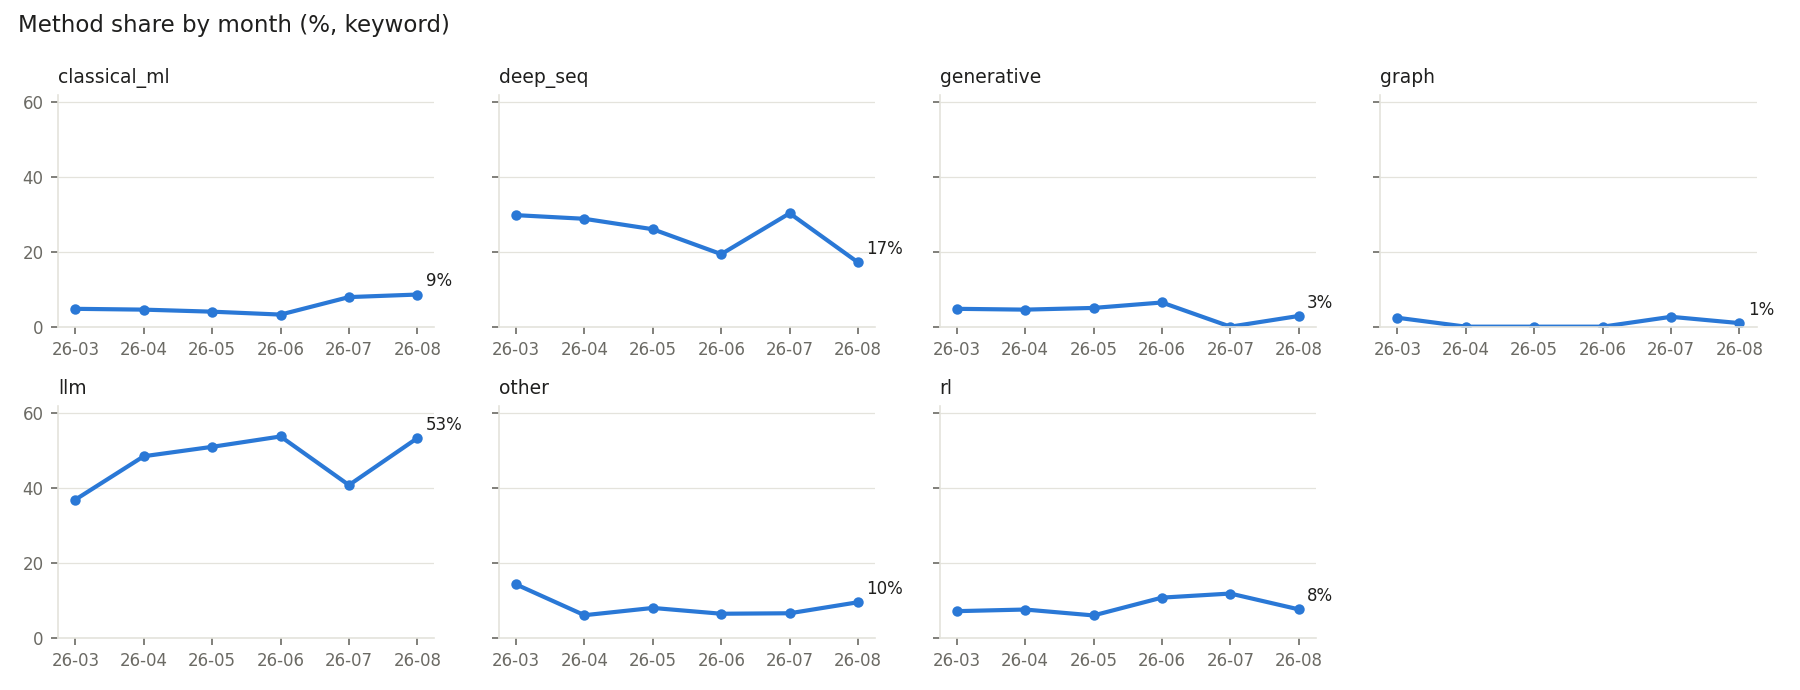
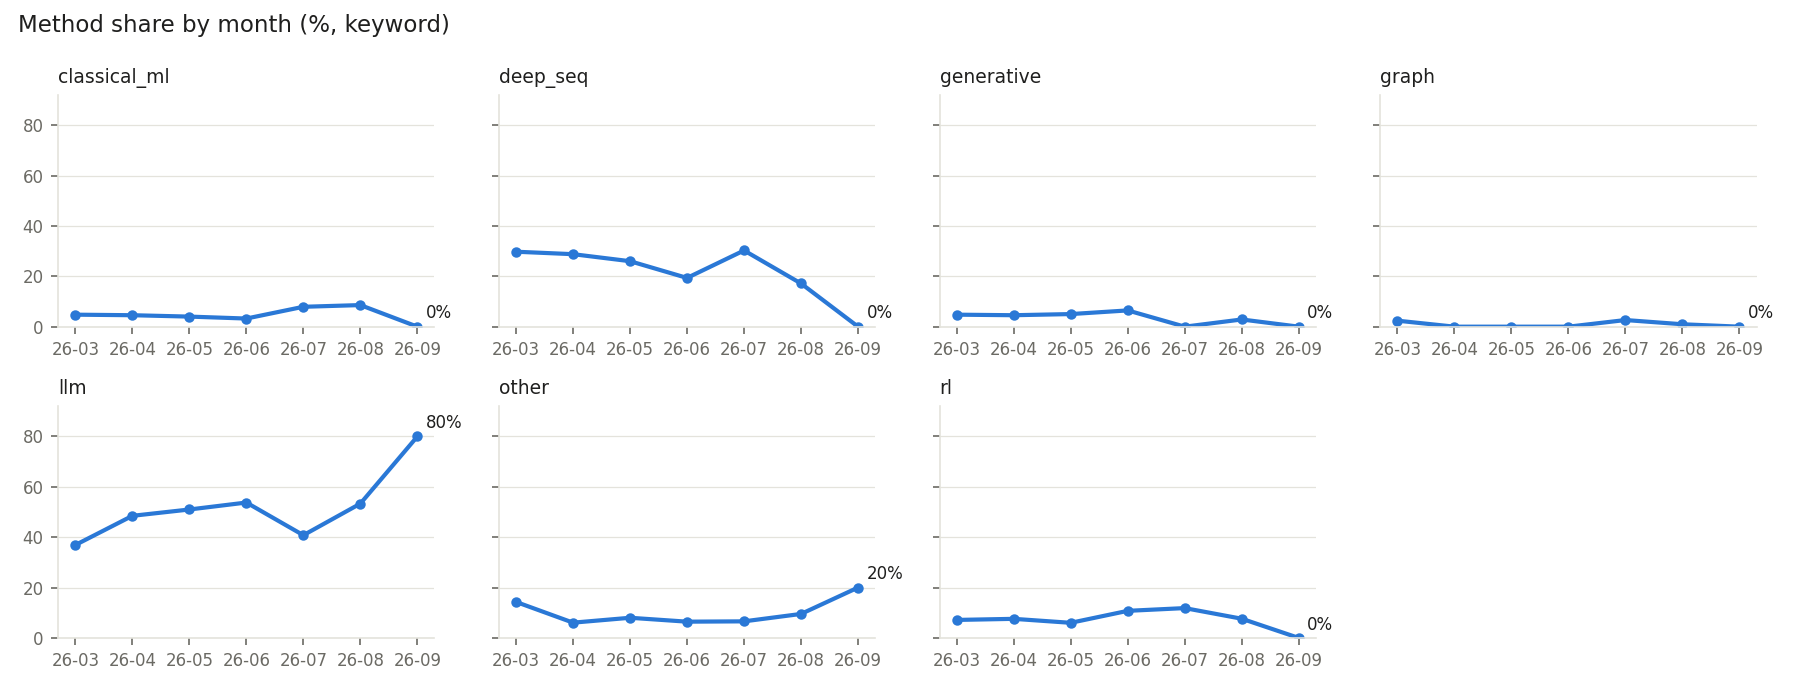
Add weekly update: append 5 new papers per week via GitHub Actions

diff --git a/run.py b/run.py
@@ -14,6 +14,7 @@
     python run.py report              # 5. 동향 보고서
     python run.py eval-sample         # 6. 평가용 100건 + 수작업 라벨·시간 기록 양식
     python run.py evaluate            # 7. 정확도·시간 단축률 평가 보고서
+    python run.py weekly              # 주간 업데이트: 새 논문 5편 추가 → 분류 → 보고서 갱신
 """
 from __future__ import annotations
 
@@ -65,6 +66,7 @@ def cmd_clean(args) -> None:
     meta = json.loads((config.RAW_DIR / "collection_meta.json").read_text(encoding="utf-8"))
     ref = date.fromisoformat(meta["reference_date"])
     files = [config.RAW_DIR / f"arxiv_{m}.json" for m, _, _ in collect_mod.month_windows(ref, meta["window_months"])]
+    files += sorted(config.RAW_DIR.glob("weekly_*.json"))  # 주간 업데이트로 추가된 논문도 유지
     rows = [r for f in files for r in json.loads(f.read_text(encoding="utf-8"))]
     with timed("clean", "auto", len(rows)):
         df, log = clean_mod.clean(rows)
@@ -187,6 +189,43 @@ def cmd_all(args) -> None:
     cmd_evaluate(args)
 
 
+def cmd_weekly(args) -> None:
+    """기존 데이터에 없는 최신 논문 n편을 추가하고, 분류·보고서를 갱신한다 (매주 GitHub Actions 가 실행)."""
+    papers = clean_mod.load_papers()
+    with timed("weekly_fetch", "weekly"):
+        new = collect_mod.fetch_latest(args.n, set(papers["arxiv_id"]), clean_mod.is_relevant)
+    today = date.today().isoformat()
+    log_path = config.RUNS_DIR / "weekly_log.csv"
+    config.RUNS_DIR.mkdir(parents=True, exist_ok=True)
+    if not log_path.exists():
+        log_path.write_text("date,added,arxiv_ids\n", encoding="utf-8")
+    with log_path.open("a", encoding="utf-8") as f:
+        f.write(f"{today},{len(new)},{' '.join(r['arxiv_id'] for r in new)}\n")
+    if not new:
+        print("[weekly] 새 논문 없음")
+        return
+
+    raw = config.RAW_DIR / f"weekly_{today}.json"
+    prev = json.loads(raw.read_text(encoding="utf-8")) if raw.exists() else []
+    raw.write_text(json.dumps(prev + new, ensure_ascii=False, indent=1), encoding="utf-8")
+    add = pd.DataFrame(new).assign(month=lambda d: d["published"].str[:7])[papers.columns]
+    pd.concat([papers, add]).to_csv(P / "papers.csv", index=False, encoding="utf-8-sig")
+    for r in new:
+        print(f"[weekly] + ({r['published']}) {r['title'][:80]}")
+    print(f"[weekly] {len(new)}편 추가 → 총 {len(papers) + len(new)}편")
+
+    args.approach, args.eval_only = "keyword", False
+    cmd_classify(args)
+    from trendlab import classify_llm as llm_mod
+    use_llm = llm_mod.has_credentials()
+    if use_llm:  # 이미 분류한 논문은 캐시되므로 새 논문만 API 비용이 든다
+        args.approach = "llm"
+        cmd_classify(args)
+        cmd_summarize(args)
+    args.approach = "llm" if use_llm else "keyword"
+    cmd_report(args)
+
+
 def main() -> None:
     p = argparse.ArgumentParser(description=__doc__, formatter_class=argparse.RawDescriptionHelpFormatter)
     sub = p.add_subparsers(dest="cmd", required=True)
@@ -202,12 +241,14 @@ def main() -> None:
     s = sub.add_parser("eval-sample"); s.add_argument("--n", type=int, default=config.EVAL_SAMPLE_SIZE)
     s.add_argument("--overwrite", action="store_true", help="기존 평가 샘플(수작업 라벨 포함)을 덮어씀")
     sub.add_parser("evaluate")
+    s = sub.add_parser("weekly"); s.add_argument("--n", type=int, default=5, help="추가할 논문 수 (기본 5)")
+    s.add_argument("--model", **model)
     s = sub.add_parser("all"); s.add_argument("--reference-date"); s.add_argument("--no-llm", action="store_true")
     s.add_argument("--model", **model)
 
     args = p.parse_args()
     {"collect": cmd_collect, "clean": cmd_clean, "classify": cmd_classify, "summarize": cmd_summarize,
-     "report": cmd_report, "eval-sample": cmd_eval_sample, "evaluate": cmd_evaluate, "all": cmd_all}[args.cmd](args)
+     "report": cmd_report, "eval-sample": cmd_eval_sample, "evaluate": cmd_evaluate, "weekly": cmd_weekly, "all": cmd_all}[args.cmd](args)
 
 
 if __name__ == "__main__":

diff --git a/src/trendlab/collect.py b/src/trendlab/collect.py
@@ -90,3 +90,29 @@ def collect(reference: date) -> list[dict]:
             "queries": config.ARXIV_QUERIES, "n_raw": len(all_rows)}
     (config.RAW_DIR / "collection_meta.json").write_text(json.dumps(meta, ensure_ascii=False, indent=2), encoding="utf-8")
     return all_rows
+
+
+def fetch_latest(n: int, exclude_ids: set[str], is_relevant) -> list[dict]:
+    """주간 업데이트용: 가장 최근 제출된 논문부터 훑어 기존 데이터에 없고 관련성 있는 논문 n편을 모은다."""
+    session = requests.Session()
+    session.headers["User-Agent"] = "trendlab/1.0 (graduate course project)"
+    query = " OR ".join(f"({q})" for q in config.ARXIV_QUERIES.values())
+    picked, seen, offset = [], set(exclude_ids), 0
+    while len(picked) < n and offset < 1000:
+        resp = session.get(API, params={"search_query": query, "start": offset, "max_results": 100,
+                                        "sortBy": "submittedDate", "sortOrder": "descending"}, timeout=90)
+        resp.raise_for_status()
+        entries = ET.fromstring(resp.content).findall(f"{ATOM}entry")
+        if not entries:
+            break
+        for e in entries:
+            row = _entry(e, "weekly")
+            if row["arxiv_id"] in seen or not is_relevant(row["title"], row["abstract"], row["categories"]):
+                continue
+            seen.add(row["arxiv_id"])
+            picked.append(row)
+            if len(picked) == n:
+                break
+        offset += 100
+        time.sleep(3)
+    return picked

diff --git a/src/trendlab/report.py b/src/trendlab/report.py
@@ -95,6 +95,10 @@ def write_trend_report(df, labels, counts, share, trend, m_share, summaries, app
         monthly = " | ".join(f"{share.loc[m, r.label] * 100:.0f}%" for m in months)
         L.append(f"| {names.get(r.label, r.label)} | {r.papers} | {r.overall_share * 100:.1f}% | {monthly} | {r.change_pp:+.1f} |")
 
+    small = [f"{m} ({int(counts.loc[m].sum())}건)" for m in months if counts.loc[m].sum() < 30]
+    if small:
+        L += ["", f"> ⚠ 논문이 30건 미만인 달은 비중이 크게 흔들리므로 해석에 주의: {', '.join(small)}"]
+
     movers = trend[trend["label"] != "other"].sort_values("change_pp")
     L += ["", "## 3. 증가·감소 주제", ""]
     for title, rows in [("증가", movers.tail(3)[::-1]), ("감소", movers.head(3))]:

diff --git a/src/trendlab/clean.py b/src/trendlab/clean.py
@@ -22,6 +22,12 @@ def _norm_title(t: str) -> str:
     return re.sub(r"[^a-z0-9]", "", t.lower())
 
 
+def is_relevant(title: str, abstract: str, categories: str) -> bool:
+    """제목+초록에 ML 용어가 있고, 금융 용어가 있거나 q-fin 카테고리면 관련 논문."""
+    text = f"{title} {abstract}"
+    return bool(ML_RE.search(text)) and (bool(FIN_RE.search(text)) or "q-fin" in categories)
+
+
 def clean(rows: list[dict]) -> tuple[pd.DataFrame, dict]:
     df = pd.DataFrame(rows)
     log = {"raw_rows": len(df)}

diff --git a/outputs/reports/trend_report_keyword.md b/outputs/reports/trend_report_keyword.md
@@ -1,7 +1,7 @@
 # 금융 머신러닝 (Financial Machine Learning) 연구 동향 보고서
 
-- 생성: 2026-09-24 15:26 · 분류 방식: **keyword**
-- 데이터: arXiv API, 2026-03 ~ 2026-08 (6개월), 논문 524건
+- 생성: 2026-09-25 22:03 · 분류 방식: **keyword**
+- 데이터: arXiv API, 2026-03 ~ 2026-09 (7개월), 논문 529건
 - 월별 비중은 LLM 이 아니라 코드로 계산 (해당 월 논문 수 대비 비율)
 
 ## 1. 월별 논문 수
@@ -12,41 +12,43 @@
 
 ![topic share](../figures/topic_share.png)
 
-| 주제 | 논문 수 | 전체 비중 | 26-03 | 26-04 | 26-05 | 26-06 | 26-07 | 26-08 | 전반→후반 (%p) |
-|---|---:|---:|---:|---:|---:|---:|---:|---:|---:|
-| 포트폴리오·자산배분 | 113 | 21.6% | 20% | 23% | 18% | 20% | 24% | 25% | +3.0 |
-| 수익률·가격 예측 | 90 | 17.2% | 20% | 15% | 26% | 16% | 8% | 15% | -7.7 |
-| 금융 텍스트·감성·대체데이터 | 85 | 16.2% | 11% | 17% | 16% | 15% | 22% | 17% | +3.5 |
-| 트레이딩·시장 미시구조 | 45 | 8.6% | 8% | 3% | 7% | 11% | 12% | 10% | +4.2 |
-| 신용·사기탐지·은행 | 40 | 7.6% | 12% | 5% | 8% | 9% | 3% | 9% | -1.5 |
-| 기타 | 38 | 7.3% | 10% | 8% | 6% | 6% | 9% | 6% | -0.7 |
-| 리스크·변동성 | 32 | 6.1% | 4% | 11% | 7% | 6% | 8% | 3% | -1.3 |
-| 파생상품 가격결정·헤징 | 31 | 5.9% | 6% | 6% | 4% | 6% | 9% | 5% | +1.4 |
-| 암호화폐·DeFi | 27 | 5.2% | 5% | 8% | 2% | 5% | 3% | 9% | +1.4 |
-| 자산가격결정·팩터 | 17 | 3.2% | 4% | 6% | 3% | 4% | 1% | 2% | -1.4 |
-| 거시경제·정책 | 6 | 1.1% | 1% | 0% | 3% | 0% | 1% | 1% | -0.9 |
+| 주제 | 논문 수 | 전체 비중 | 26-03 | 26-04 | 26-05 | 26-06 | 26-07 | 26-08 | 26-09 | 전반→후반 (%p) |
+|---|---:|---:|---:|---:|---:|---:|---:|---:|---:|---:|
+| 포트폴리오·자산배분 | 115 | 21.7% | 20% | 23% | 18% | 20% | 24% | 25% | 40% | +3.3 |
+| 수익률·가격 예측 | 91 | 17.2% | 20% | 15% | 26% | 16% | 8% | 15% | 20% | -7.6 |
+| 금융 텍스트·감성·대체데이터 | 85 | 16.1% | 11% | 17% | 16% | 15% | 22% | 17% | 0% | +3.2 |
+| 트레이딩·시장 미시구조 | 45 | 8.5% | 8% | 3% | 7% | 11% | 12% | 10% | 0% | +4.0 |
+| 신용·사기탐지·은행 | 40 | 7.6% | 12% | 5% | 8% | 9% | 3% | 9% | 0% | -1.6 |
+| 기타 | 39 | 7.4% | 10% | 8% | 6% | 6% | 9% | 6% | 20% | -0.4 |
+| 리스크·변동성 | 32 | 6.0% | 4% | 11% | 7% | 6% | 8% | 3% | 0% | -1.4 |
+| 파생상품 가격결정·헤징 | 31 | 5.9% | 6% | 6% | 4% | 6% | 9% | 5% | 0% | +1.3 |
+| 암호화폐·DeFi | 27 | 5.1% | 5% | 8% | 2% | 5% | 3% | 9% | 0% | +1.3 |
+| 자산가격결정·팩터 | 18 | 3.4% | 4% | 6% | 3% | 4% | 1% | 2% | 20% | -1.1 |
+| 거시경제·정책 | 6 | 1.1% | 1% | 0% | 3% | 0% | 1% | 1% | 0% | -0.9 |
+
+> ⚠ 논문이 30건 미만인 달은 비중이 크게 흔들리므로 해석에 주의: 2026-09 (5건)
 
 ## 3. 증가·감소 주제
 
-**증가**: 트레이딩·시장 미시구조 (+4.2%p, 기울기 +1.03%p/월), 금융 텍스트·감성·대체데이터 (+3.5%p, 기울기 +1.38%p/월), 포트폴리오·자산배분 (+3.0%p, 기울기 +0.80%p/월)
+**증가**: 트레이딩·시장 미시구조 (+4.0%p, 기울기 -0.26%p/월), 포트폴리오·자산배분 (+3.3%p, 기울기 +2.47%p/월), 금융 텍스트·감성·대체데이터 (+3.2%p, 기울기 -0.89%p/월)
 
-**감소**: 수익률·가격 예측 (-7.7%p, 기울기 -1.62%p/월), 신용·사기탐지·은행 (-1.5%p, 기울기 -0.62%p/월), 자산가격결정·팩터 (-1.4%p, 기울기 -0.61%p/월)
+**감소**: 수익률·가격 예측 (-7.6%p, 기울기 -0.67%p/월), 신용·사기탐지·은행 (-1.6%p, 기울기 -1.18%p/월), 리스크·변동성 (-1.4%p, 기울기 -0.90%p/월)
 
 ## 4. 주제별 요약과 근거 논문
 
-### 포트폴리오·자산배분 (113건)
+### 포트폴리오·자산배분 (115건)
 
 근거 논문:
-- (2026-08) [Regime-Aware Portfolio Management via Retrieval-Augmented LLM-Guided Expert Switching](http://arxiv.org/abs/2608.28252v1)
-- (2026-08) [Titans-QFWP: A Regime-Aware Hybrid Quantum Fast Weight Programmer for Portfolio Optimization](http://arxiv.org/abs/2608.29093v1)
 - (2026-08) [Super Library Agent: Joint Generation and Maintenance of Multiple Applications Beyond the Single Codebase](http://arxiv.org/abs/2608.29310v1)
+- (2026-09) [FinRankGRPO: Optimizing LLMs for Listwise Financial Asset Ranking via Group Relative Policy Optimization](http://arxiv.org/abs/2609.24175v1)
+- (2026-09) [Propose, Don't Judge: An Anytime-Valid Referee for LLM Agents That Mine Investment Factors](http://arxiv.org/abs/2609.27051v1)
 
-### 수익률·가격 예측 (90건)
+### 수익률·가격 예측 (91건)
 
 근거 논문:
-- (2026-08) [Quantifying Event Impacts on Time Series via Multiscale Contrastive Learning](http://arxiv.org/abs/2608.19447v1)
 - (2026-08) [(Mis)Understanding Benign Overfitting in Equity Return Prediction](http://arxiv.org/abs/2608.23761v1)
 - (2026-08) [DSA: Evidence-Aware LLM-Agent Orchestration for Multi-Market Stock Research](http://arxiv.org/abs/2608.26990v1)
+- (2026-09) [The Informational Content in Lepto-Variance and Its Relation to Higher Moments](http://arxiv.org/abs/2609.25144v1)
 
 ### 금융 텍스트·감성·대체데이터 (85건)
 
@@ -69,12 +71,12 @@
 - (2026-08) [A Temporal Multiplex Graph Neural Network for Systemic Risk Transmission in Global Banking](http://arxiv.org/abs/2608.27295v1)
 - (2026-08) [Oculi: A Conversational Agentic Platform for Automated Credit Risk Analysis](http://arxiv.org/abs/2608.28944v1)
 
-### 기타 (38건)
+### 기타 (39건)
 
 근거 논문:
-- (2026-08) [Self-Supervised Auxiliary Task Discovery for Stable Reinforcement Learning in Stock Trading](http://arxiv.org/abs/2608.15841v1)
 - (2026-08) [Spatially explicit feature importance for building height estimation using research-access high-resolution SAR and optical sensors](http://arxiv.org/abs/2608.17822v1)
 - (2026-08) [PGFS++: Molecular Property Improvement under Synthesis and Diversity Constraints](http://arxiv.org/abs/2608.19121v1)
+- (2026-09) [Bridging LLM Serving and CXL-SSDs with Chunk-Aware KV Cache Management](http://arxiv.org/abs/2609.26828v1)
 
 ### 리스크·변동성 (32건)
 
@@ -97,12 +99,12 @@
 - (2026-08) [Quality over Quantity: Semi-Supervised Detection of Illicit Bitcoin Flows via Feature Engineering](http://arxiv.org/abs/2609.27936v1)
 - (2026-08) [An Open-Source, Event-Driven Pipeline for Cryptocurrency Market Data: Ingestion, Forecasting, and On-Chain Fraud Detection](http://arxiv.org/abs/2608.29973v1)
 
-### 자산가격결정·팩터 (17건)
+### 자산가격결정·팩터 (18건)
 
 근거 논문:
-- (2026-07) [DisclosureBeta: A Measurement-Channel Theory for Regime-Conditioned Betas from LLM-Read Risk Disclosures](http://arxiv.org/abs/2609.02900v1)
 - (2026-08) [Cross-Sectional Heterogeneity in LSTM Networks for Financial Time Series](http://arxiv.org/abs/2608.05755v2)
 - (2026-08) [AlphaSeek: Trajectory-Level Self-Iterative Factor Mining Framework for Multi-Source Financial Data](http://arxiv.org/abs/2608.13913v1)
+- (2026-09) [AlphaDiverse: Post-Training Local Quantitative Research Agents for Diverse Exploration in Alpha Factor Mining](http://arxiv.org/abs/2609.29014v1)
 
 ### 거시경제·정책 (6건)
 
@@ -115,12 +117,12 @@
 
 ![method share](../figures/method_share.png)
 
-| 방법론 | 26-03 | 26-04 | 26-05 | 26-06 | 26-07 | 26-08 |
-|---|---:|---:|---:|---:|---:|---:|
-| 전통 ML(트리·선형·SVM) | 5% | 5% | 4% | 3% | 8% | 9% |
-| 딥러닝 시계열(Transformer·RNN 등) | 30% | 29% | 26% | 19% | 30% | 17% |
-| 생성모델(Diffusion·GAN·VAE) | 5% | 5% | 5% | 6% | 0% | 3% |
-| 그래프 신경망 | 2% | 0% | 0% | 0% | 3% | 1% |
-| LLM·생성형 에이전트 | 37% | 48% | 51% | 54% | 41% | 53% |
-| 기타/통계·이론 | 14% | 6% | 8% | 6% | 7% | 10% |
-| 강화학습 | 7% | 8% | 6% | 11% | 12% | 8% |
+| 방법론 | 26-03 | 26-04 | 26-05 | 26-06 | 26-07 | 26-08 | 26-09 |
+|---|---:|---:|---:|---:|---:|---:|---:|
+| 전통 ML(트리·선형·SVM) | 5% | 5% | 4% | 3% | 8% | 9% | 0% |
+| 딥러닝 시계열(Transformer·RNN 등) | 30% | 29% | 26% | 19% | 30% | 17% | 0% |
+| 생성모델(Diffusion·GAN·VAE) | 5% | 5% | 5% | 6% | 0% | 3% | 0% |
+| 그래프 신경망 | 2% | 0% | 0% | 0% | 3% | 1% | 0% |
+| LLM·생성형 에이전트 | 37% | 48% | 51% | 54% | 41% | 53% | 80% |
+| 기타/통계·이론 | 14% | 6% | 8% | 6% | 7% | 10% | 20% |
+| 강화학습 | 7% | 8% | 6% | 11% | 12% | 8% | 0% |

diff --git a/README.md b/README.md
@@ -30,6 +30,7 @@ eval-sample ─▶ (사람이 100건 라벨링 + 시간 기록) ─▶ evaluate 
 
 ```
 team/
+├── .github/workflows/weekly.yml  # 매주 자동 업데이트 (GitHub Actions)
 ├── run.py                  # 실행 진입점 (명령어 목록은 python run.py -h)
 ├── config.py               # 분야·검색식·기간·상한·모델·성공 기준 등 설정
 ├── src/trendlab/
@@ -46,7 +47,7 @@ team/
 │   ├── raw/                # arXiv 원본 (월별 JSON)
 │   ├── processed/          # papers.csv, labels_*.csv, monthly_*.csv, trend_table_*.csv
 │   ├── eval/               # eval_sample.csv (수작업 라벨), manual_timing.csv (수작업 시간)
-│   └── runs/               # timings.csv (자동 단계 시간), llm_usage.csv (토큰 사용량)
+│   └── runs/               # timings.csv (자동 단계 시간), llm_usage.csv (토큰), weekly_log.csv (주간 추가 기록)
 └── outputs/
     ├── figures/            # monthly_counts.png, topic_share.png, method_share.png
     └── reports/            # trend_report_keyword.md, trend_report_llm.md, evaluation_report.md
@@ -92,6 +93,21 @@ python run.py summarize                             # 4. 주제별 동향 요약
 python run.py report                                # 5. 동향 보고서 (llm 라벨이 있으면 llm 기준)
 python run.py report --approach keyword             #    키워드 기준 보고서
 ```
+
+### 주간 업데이트 (매주 새 논문 5편 추가)
+
+```bash
+python run.py weekly          # 기존 데이터에 없는 최신 논문 5편 추가 → 분류 → 보고서 갱신
+python run.py weekly --n 10   # 개수 변경
+```
+
+- 추가된 논문 원본은 `data/raw/weekly_날짜.json`, 기록은 `data/runs/weekly_log.csv` 에 쌓인다.
+- `python run.py all` 로 처음부터 다시 수집해도 주간 추가분은 유지된다.
+- **자동 실행**: GitHub Actions(`.github/workflows/weekly.yml`)가 매주 월요일 09:00(KST)에 실행하고 결과를 저장소에 커밋한다.
+  컴퓨터가 꺼져 있어도 된다. 내 드라이브 폴더에 반영하려면 `git pull`.
+  - 수동 실행: GitHub 저장소 → Actions → Weekly paper update → Run workflow
+  - LLM 분류까지 자동으로 하려면: Settings → Secrets and variables → Actions → `ANTHROPIC_API_KEY` 등록
+    (없으면 키워드 분류로만 갱신)
 
 ### 성공 기준 평가 (문제정의서 4절)
 
